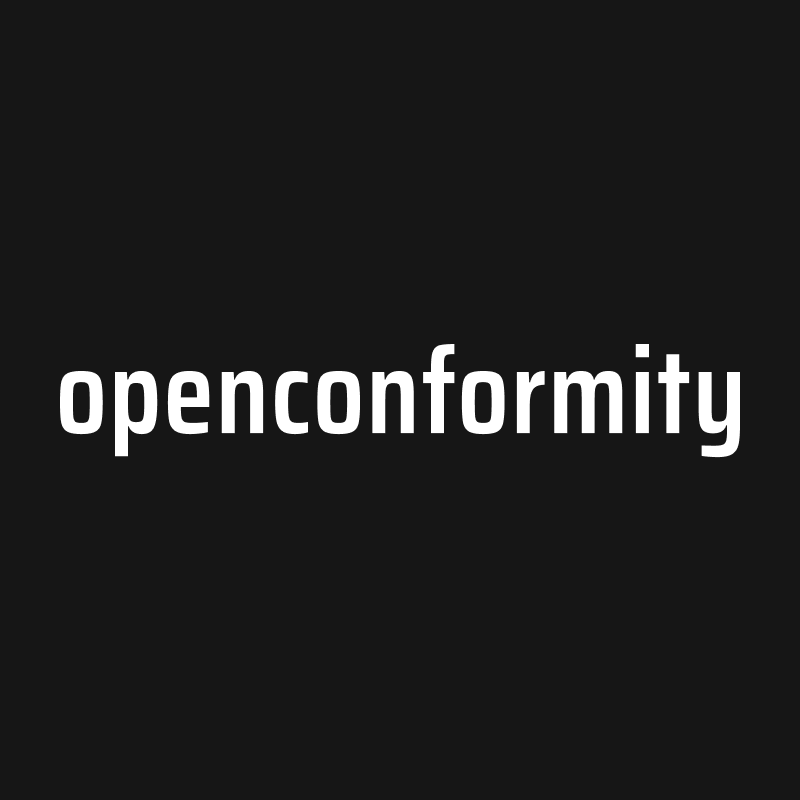
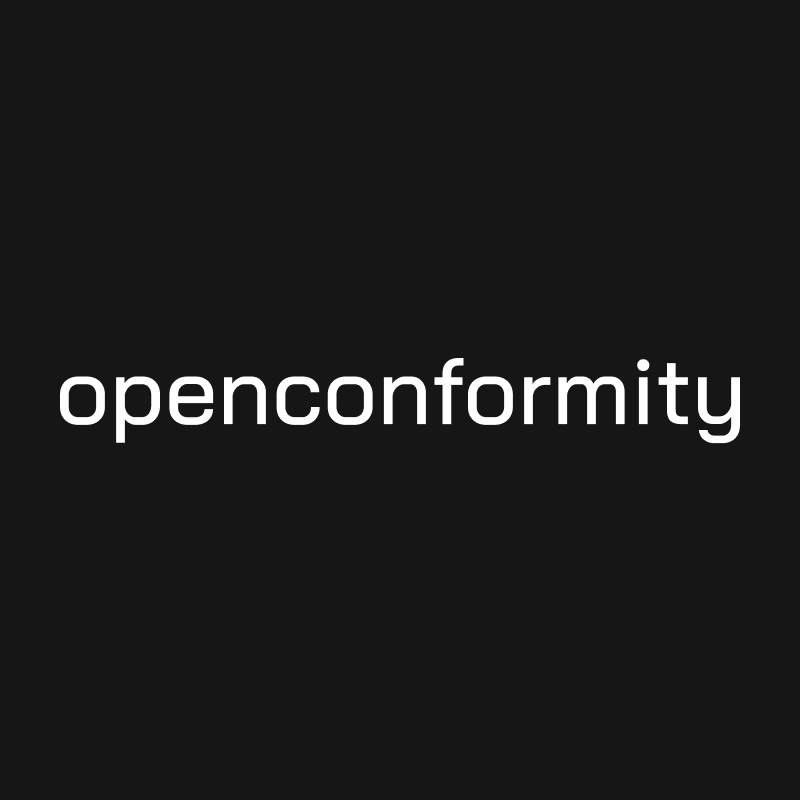
Replace the wordmark typeface and soften the cube

Changed region(s): [[0.0625, 0.4062, 0.9375, 0.5938]]

diff --git a/site/style.css b/site/style.css
@@ -222,7 +222,7 @@ a:hover { color: var(--link-hover); text-decoration: underline; }
 .wordmark {
   display: block;
   height: 21px;
-  aspect-ratio: 681 / 114;  /* the mark's own */
+  aspect-ratio: 869 / 109;  /* the mark's own */
   flex: none;
   color: var(--shell-text);
   background: currentColor;
@@ -552,7 +552,7 @@ footer {
 .foot-mark {
   display: block;
   height: 20px;
-  aspect-ratio: 681 / 114;  /* the mark's own */
+  aspect-ratio: 869 / 109;  /* the mark's own */
   color: var(--shell-text);
   background: currentColor;
   -webkit-mask: url("assets/marks/wordmark.svg") no-repeat left / contain;

diff --git a/app/style.css b/app/style.css
@@ -257,7 +257,7 @@ use.node-icon[data-pillar="requirementsDefinition"] { fill: var(--pillar-require
   display: block;
   color: inherit;
   height: 18px;
-  aspect-ratio: 681 / 114;  /* the mark's own */
+  aspect-ratio: 869 / 109;  /* the mark's own */
   flex: none;
   margin-right: 24px;  /* $spacing-06 */
   background: currentColor;

diff --git a/docs/requirements.md b/docs/requirements.md
@@ -265,13 +265,13 @@ The wordmark shall be "openconformity" set as below.
 
 | Property | Value |
 |---|---|
-| Typeface | Saira Condensed |
-| Weight | SemiBold, 600 |
+| Typeface | Bai Jamjuree |
+| Weight | Medium, 500 |
 | Case | Lower |
-| Letter spacing | 1% |
+| Letter spacing | 0% |
 | Colour | `#161616` |
 
-> *The name is the identity. A condensed face keeps a fourteen-character name legible where it has little room, and a weight above regular holds its presence at that width.*
+> *The name is the identity. A square sans reads as engineering without being cold, and a weight above regular gives the mark presence at the size it appears in the shell.*
 
 ---
 
